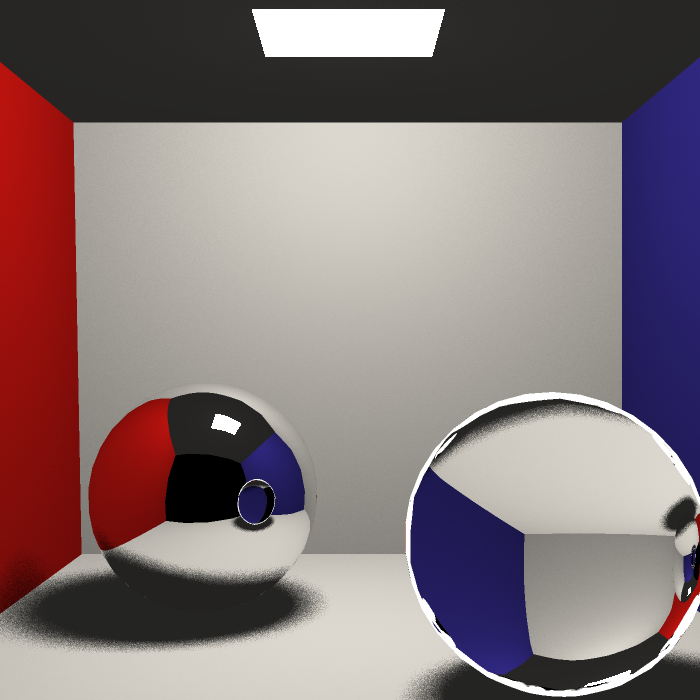
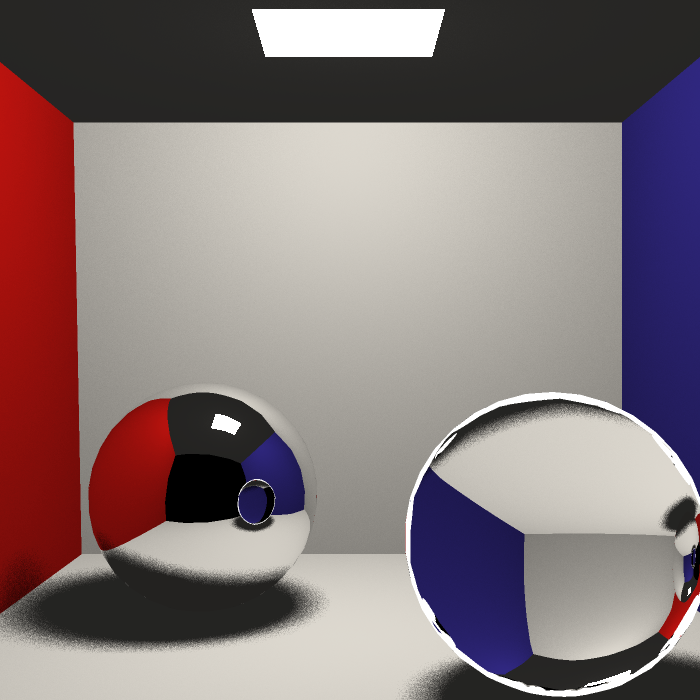
actually correct refraction

diff --git a/src/wavefront_material.rs b/src/wavefront_material.rs
@@ -185,18 +185,13 @@ impl Material for WFMaterial {
         let (refracted_vector, new_context): (Vec4d, RayContext) = match self.index_of_refraction {
             None => (f.view, ray.ray_context.clone()),
             Some(ior) => {
-                // let ior = 1.5;
                 let V = f.view * -1.0;
-                let in_object = V.dot(f.true_normal) > 0.0; // ray.ray_context.current_ior_or(-0.5) == ior;
+                let in_object = V.dot(f.true_normal) > 0.0;
                 let (ni, nt, new_context) = if in_object {
-                    // result.diffuse_colour = Colour::RGB(0.0, 10.0, 0.0);
-                    // result.ambient_colour = Colour::RGB(0.0, 10.0, 0.0);
-                    // return result;
-
                     let new_context = ray.ray_context.exit_material();
                     (
-                        ior, //ray.ray_context.current_ior_or(ior),
-                        1.0, //new_context.current_ior_or(1.0),
+                        ray.ray_context.current_ior_or(ior),
+                        new_context.current_ior_or(1.0),
                         new_context,
                     )
                 } else {
@@ -204,11 +199,7 @@ impl Material for WFMaterial {
                     // result.ambient_colour = Colour::RGB(0.0, 0.0, 100.0);
                     // return result;
                     let new_context = ray.ray_context.enter_material(ior);
-                    (
-                        1.0, //ray.ray_context.current_ior_or(1.0),
-                        ior,
-                        new_context,
-                    )
+                    (ray.ray_context.current_ior_or(1.0), ior, new_context)
                 };
                 let mut nr = ni / nt;
                 // nr = 1.0 / nr;
